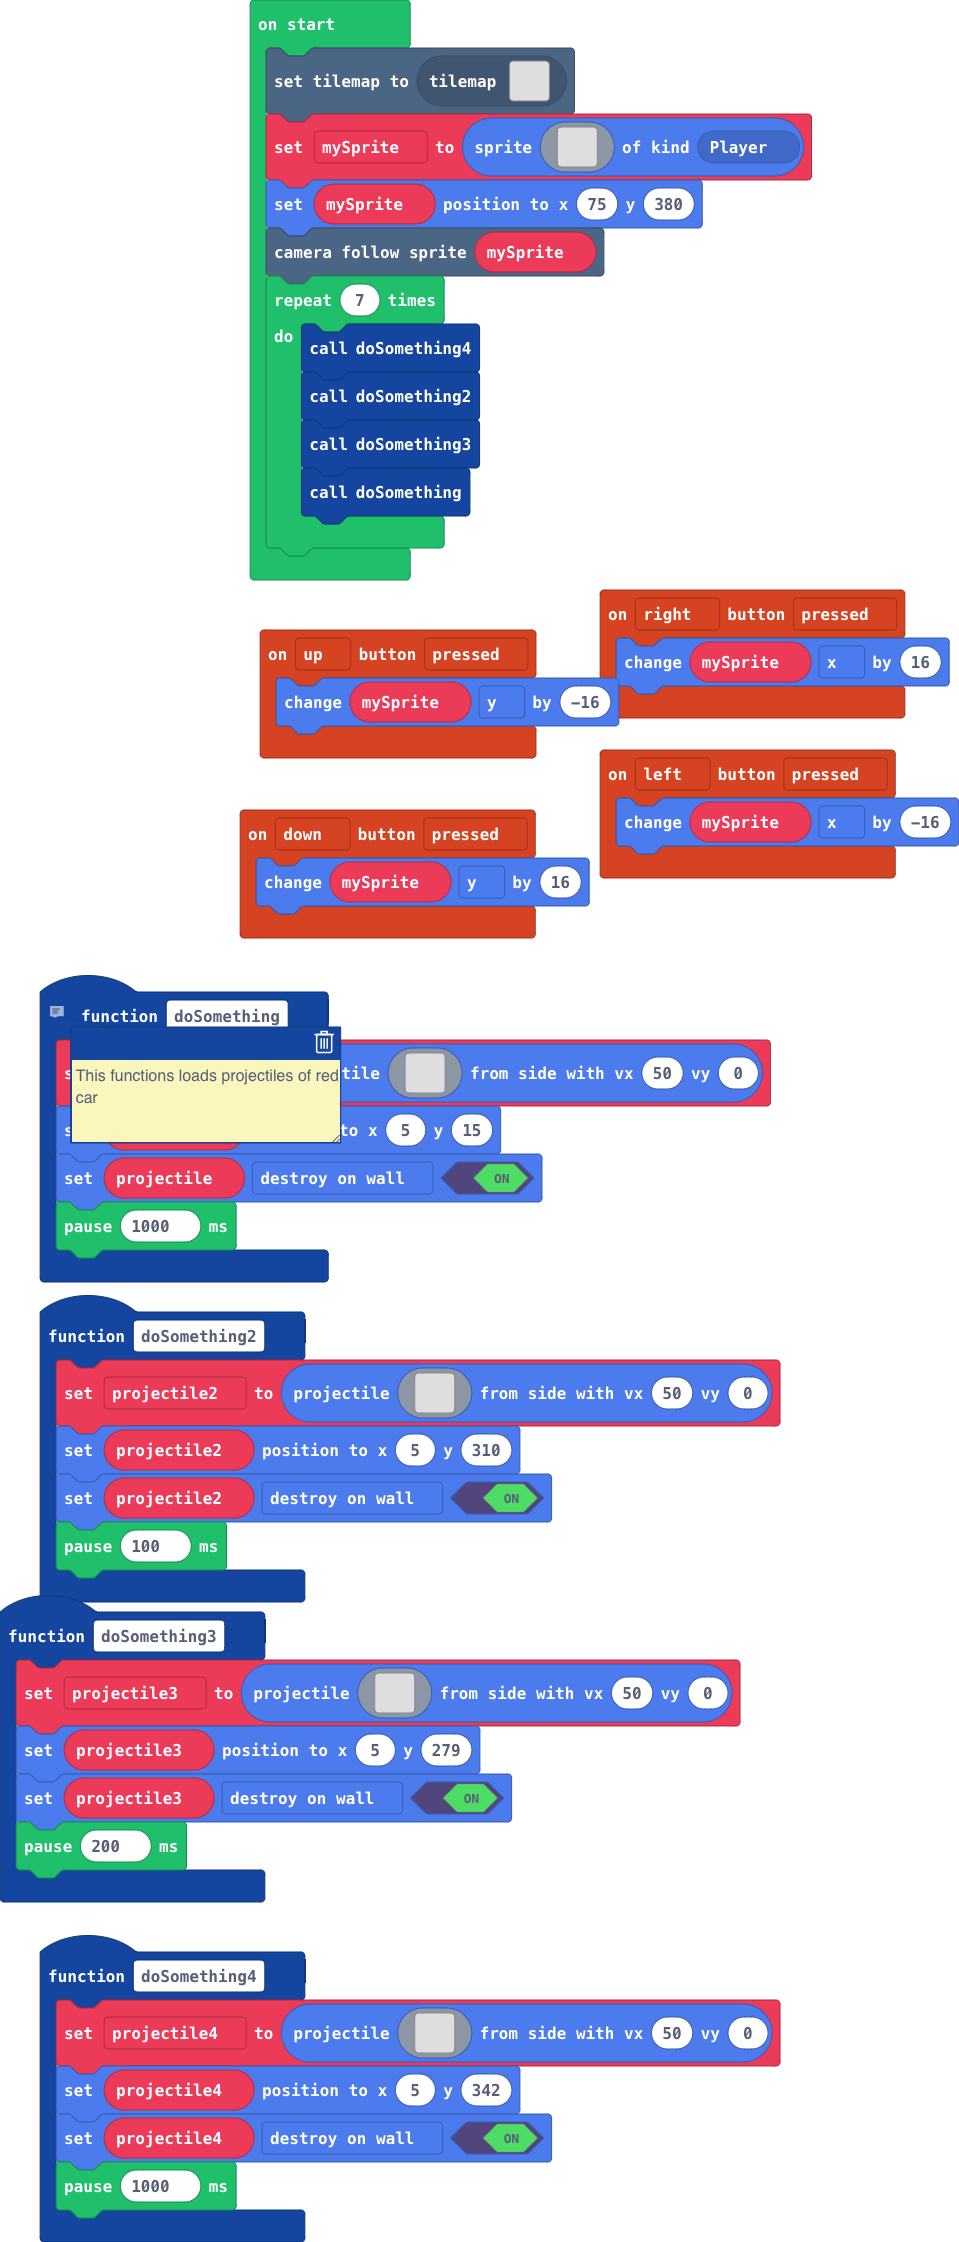
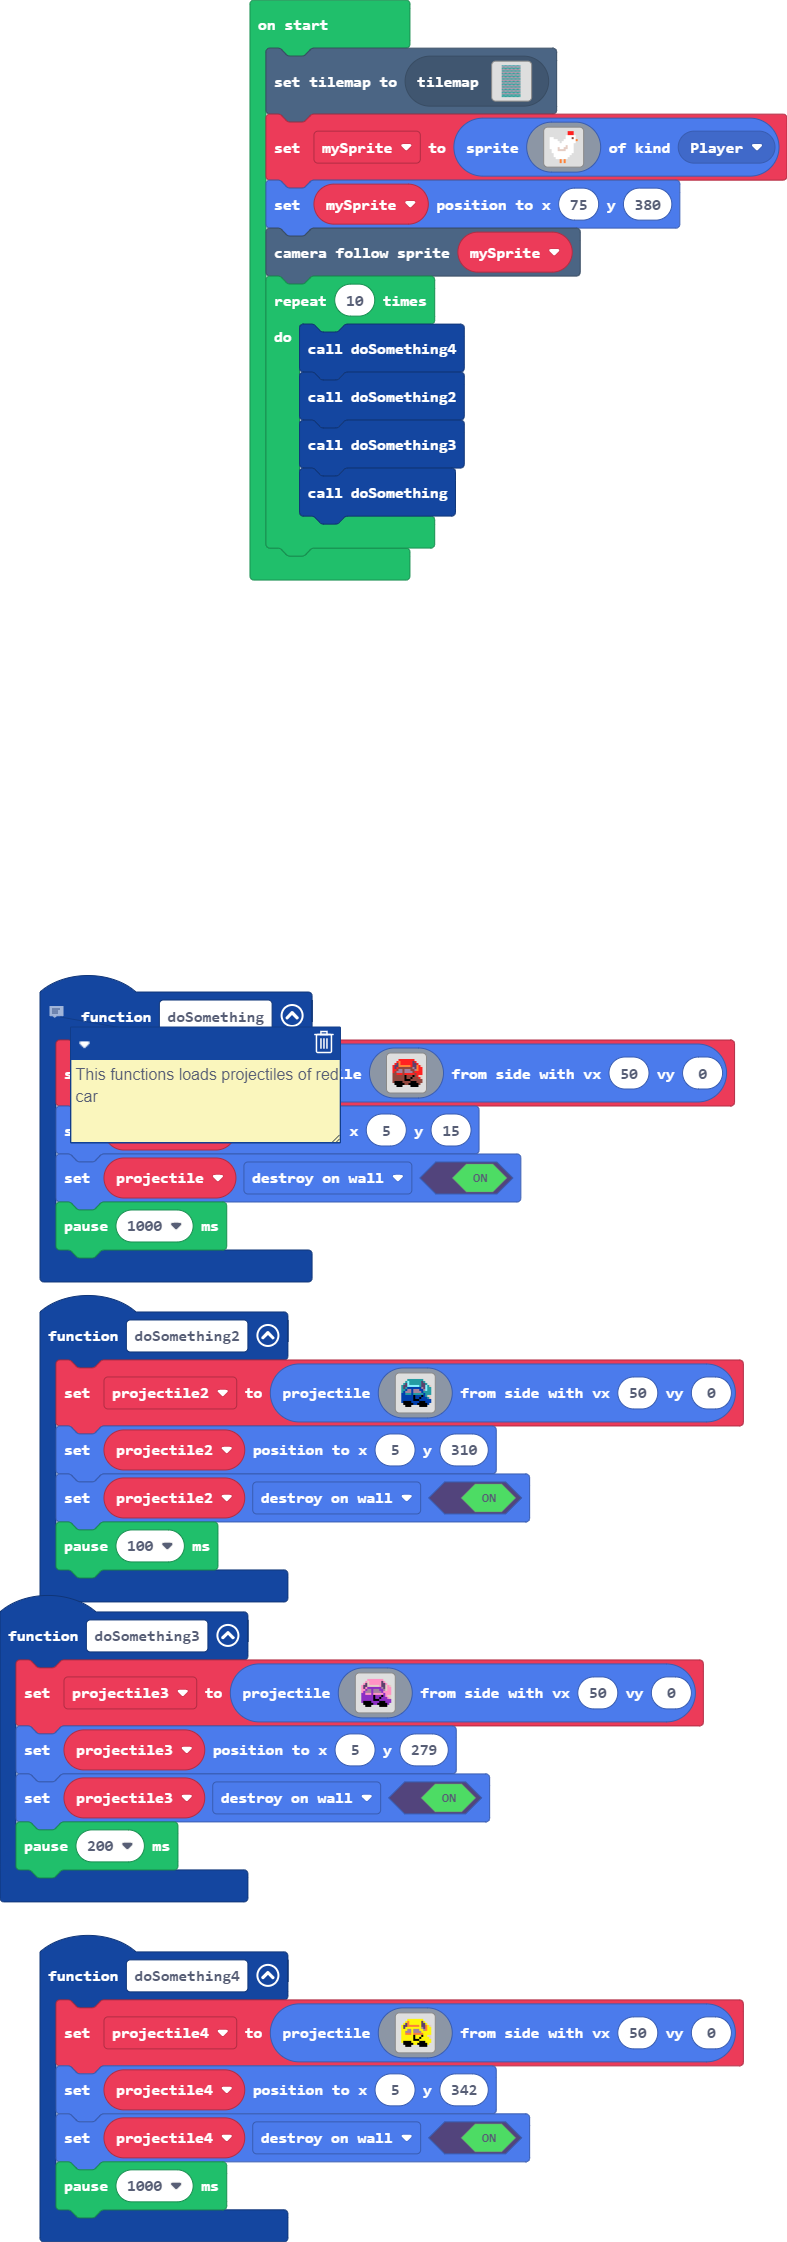
Update main.blocks, main.ts

diff --git a/main.ts b/main.ts
@@ -129,7 +129,7 @@ mySprite = sprites.create(img`
     `, SpriteKind.Player)
 mySprite.setPosition(75, 380)
 scene.cameraFollowSprite(mySprite)
-for (let index = 0; index < 7; index++) {
+for (let index = 0; index < 10; index++) {
     doSomething4()
     doSomething2()
     doSomething3()
